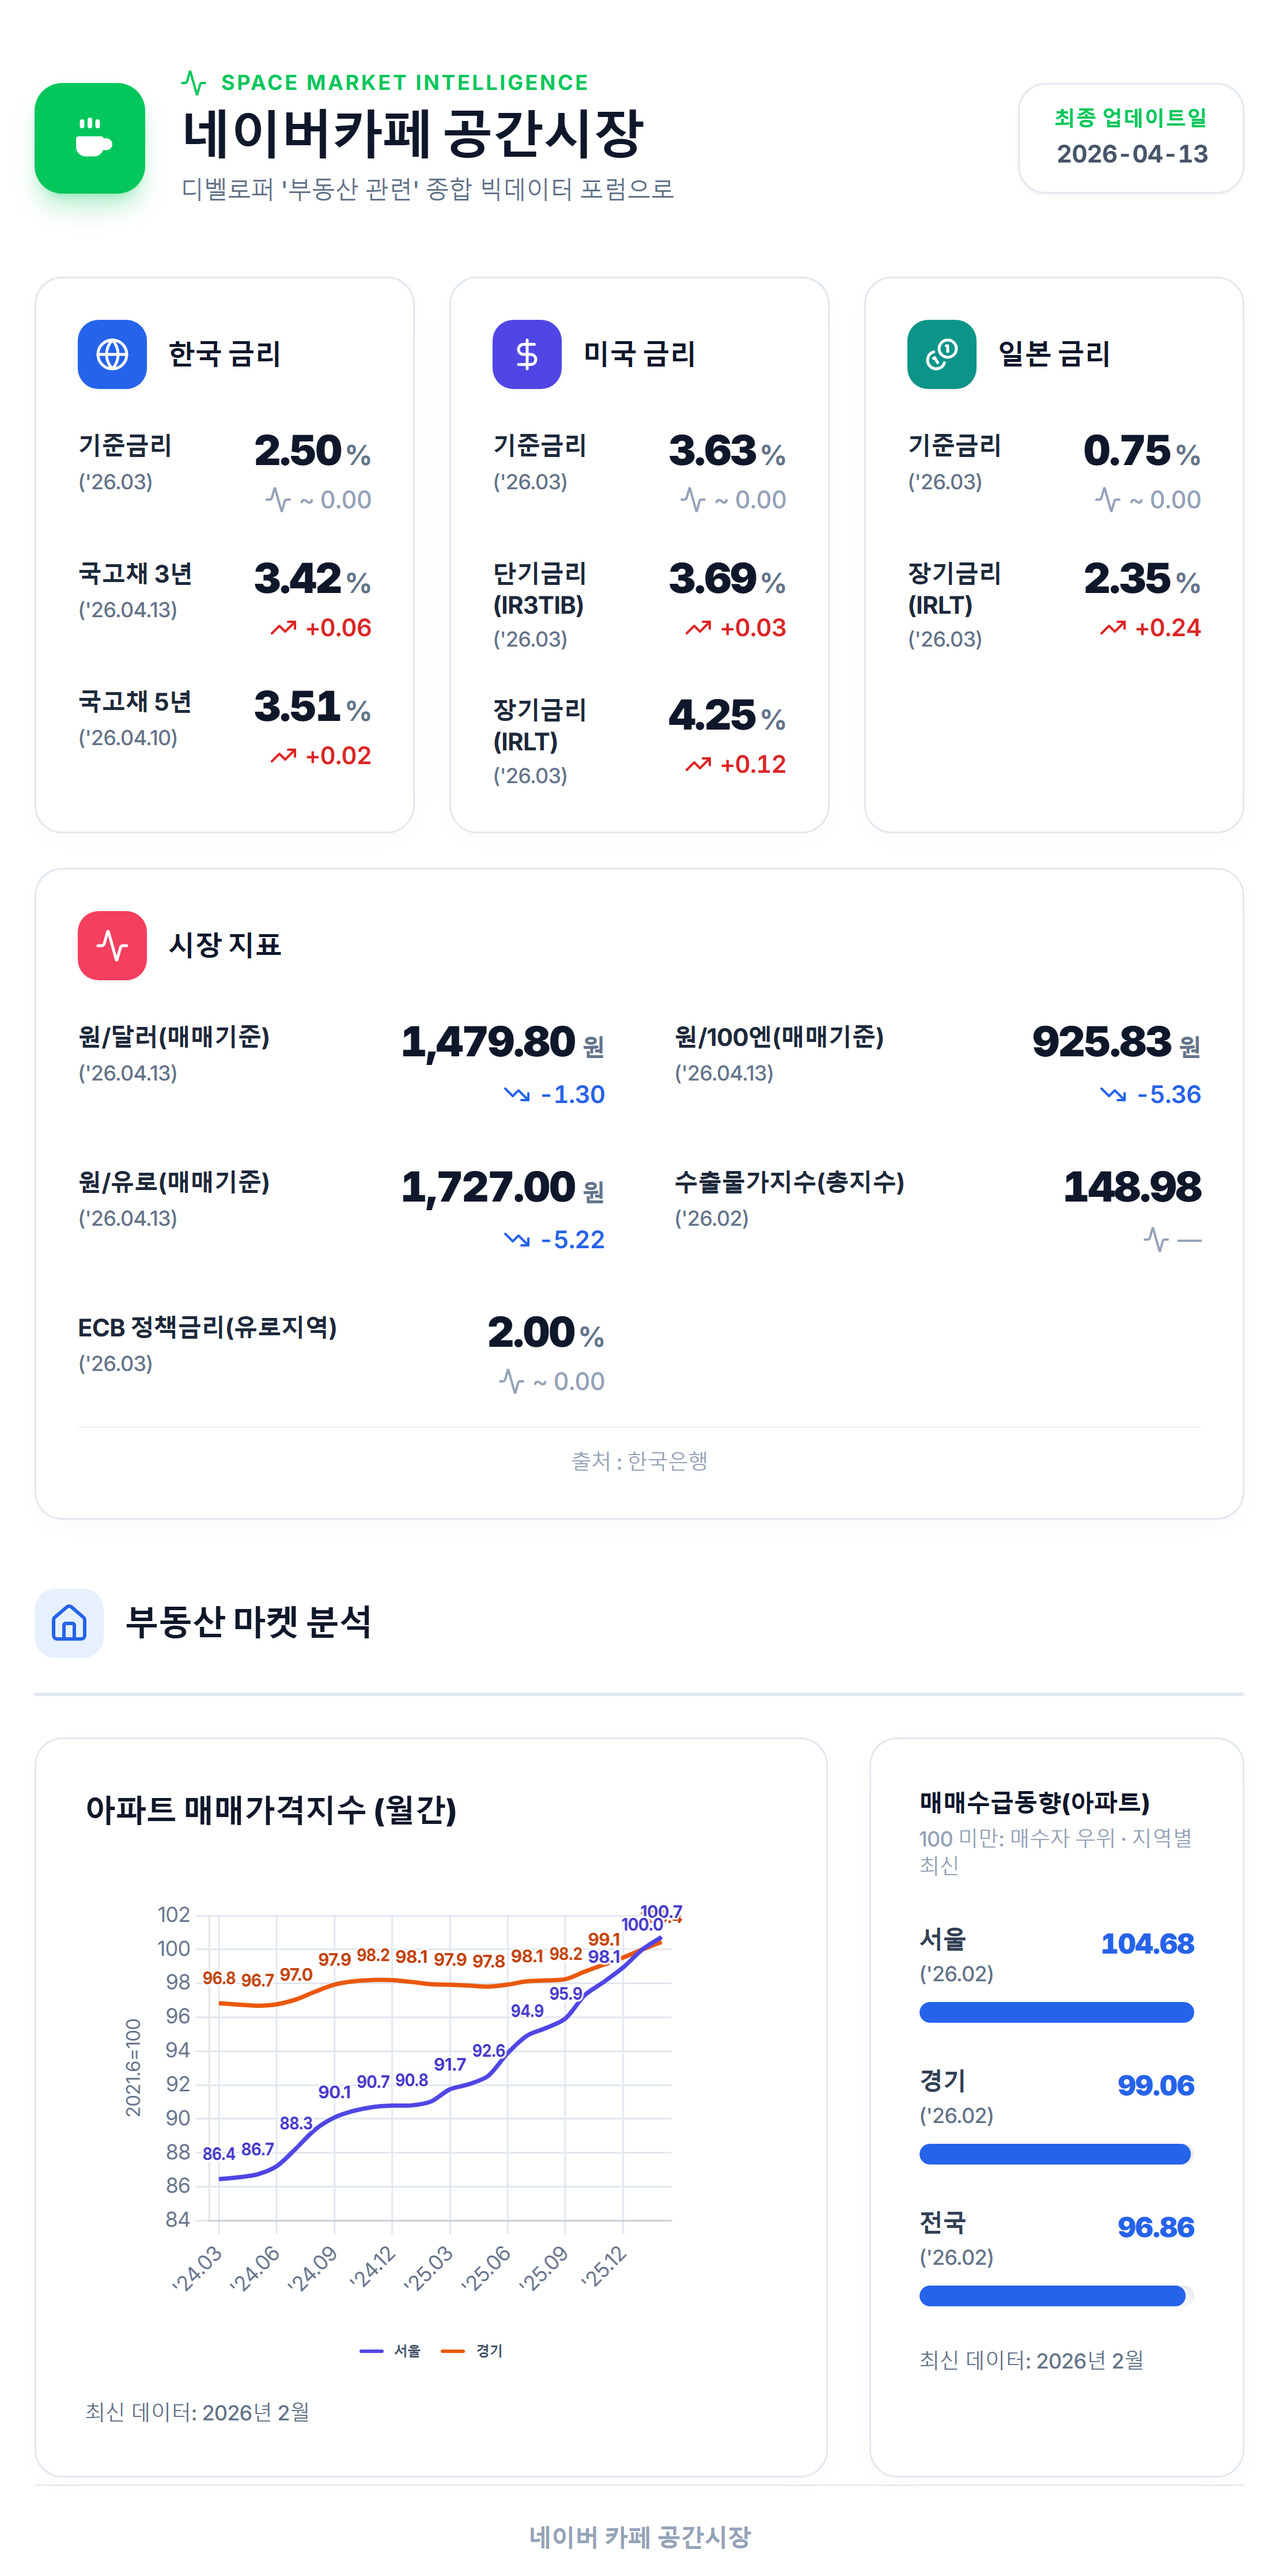
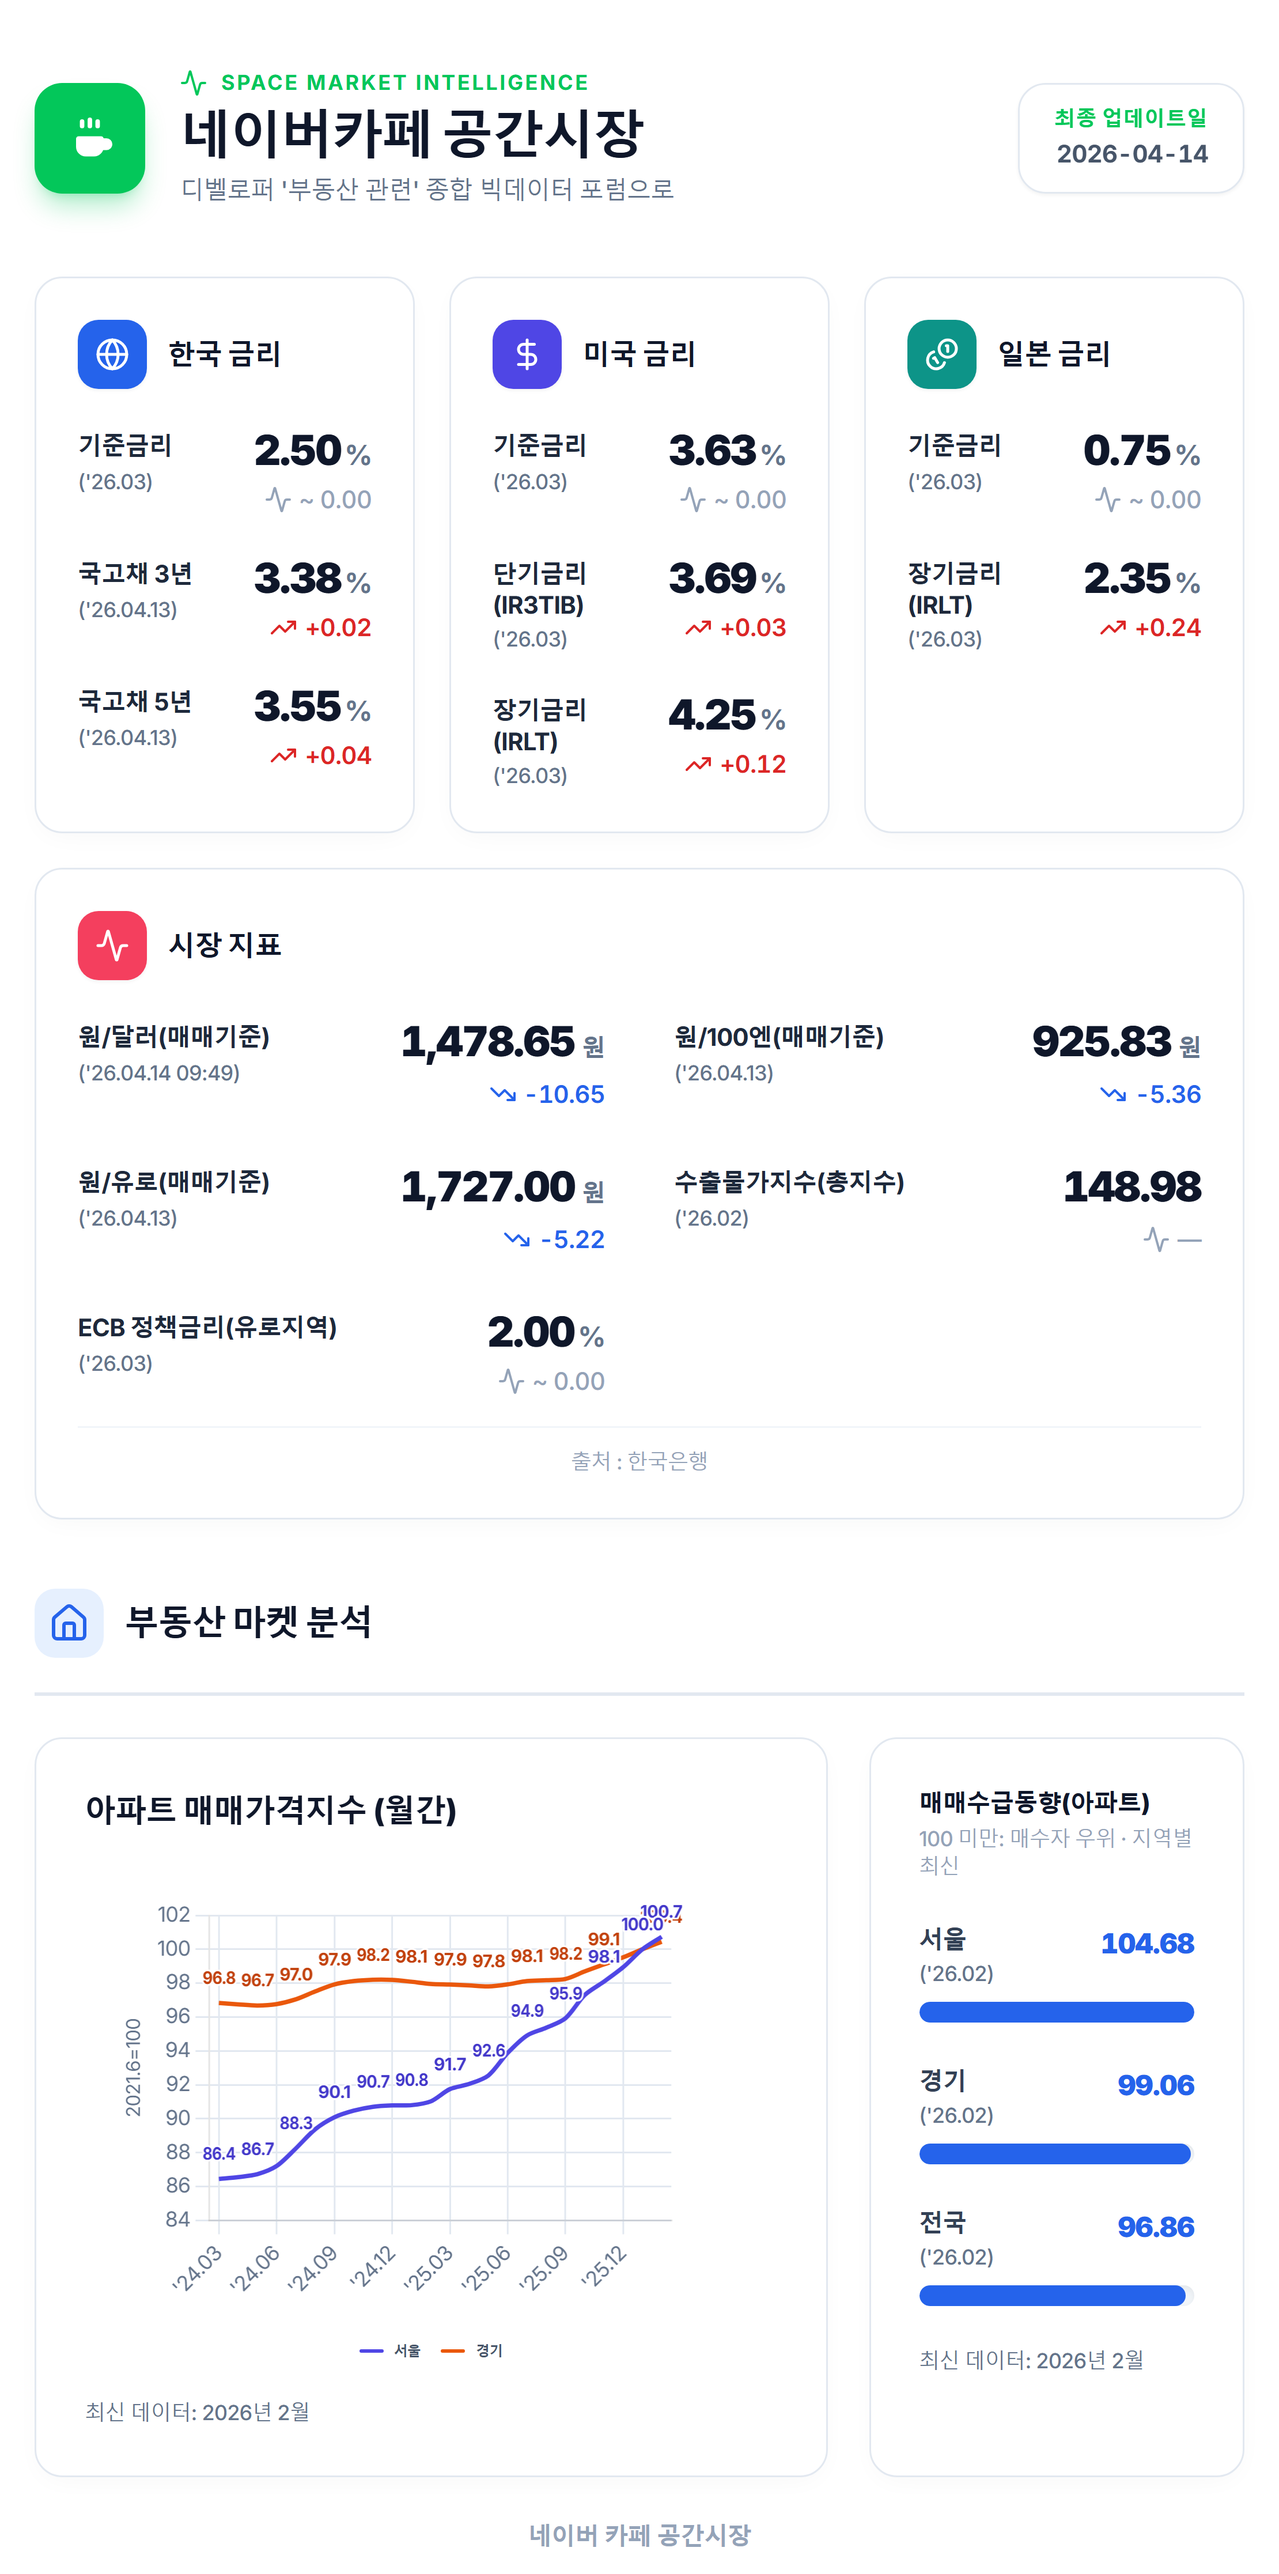
chore: ticker update

diff --git a/cafe-door.html b/cafe-door.html
@@ -3,7 +3,7 @@
 <tbody>
 <tr>
 <td align="center" style="padding:0;line-height:0;">
-<a href="https://cafe.naver.com/speedgoodroom" target="_blank" rel="noopener noreferrer" style="display:block;border:0;text-decoration:none"><img src="https://cdn.jsdelivr.net/gh/kjhwang725-maker/cafe@c4b1a26b5592df59bb3c64117422d6af5f0d09f3/docs/ticker.png" width="740" style="width:740px;max-width:100%;height:auto;display:block;margin:0;padding:0;border:0" alt="" loading="eager" decoding="async"></a>
+<a href="https://cafe.naver.com/speedgoodroom" target="_blank" rel="noopener noreferrer" style="display:block;border:0;text-decoration:none"><img src="https://cdn.jsdelivr.net/gh/kjhwang725-maker/cafe@main/docs/ticker.png?v=1_20260414_095054" width="740" style="width:740px;max-width:100%;height:auto;display:block;margin:0;padding:0;border:0" alt="" loading="eager" decoding="async"></a>
 </td>
 </tr>
 </tbody>

diff --git a/docs/index.html b/docs/index.html
@@ -137,7 +137,7 @@
     </div>
   </main>
 
-  <footer class="text-center text-sm font-semibold text-slate-400 tracking-tight pt-5 pb-1 mt-1 border-t border-slate-200/80">
+  <footer class="text-center text-sm font-semibold text-slate-400 tracking-tight pt-5 pb-1 mt-1">
     네이버 카페 공간시장
   </footer>
 </div>
